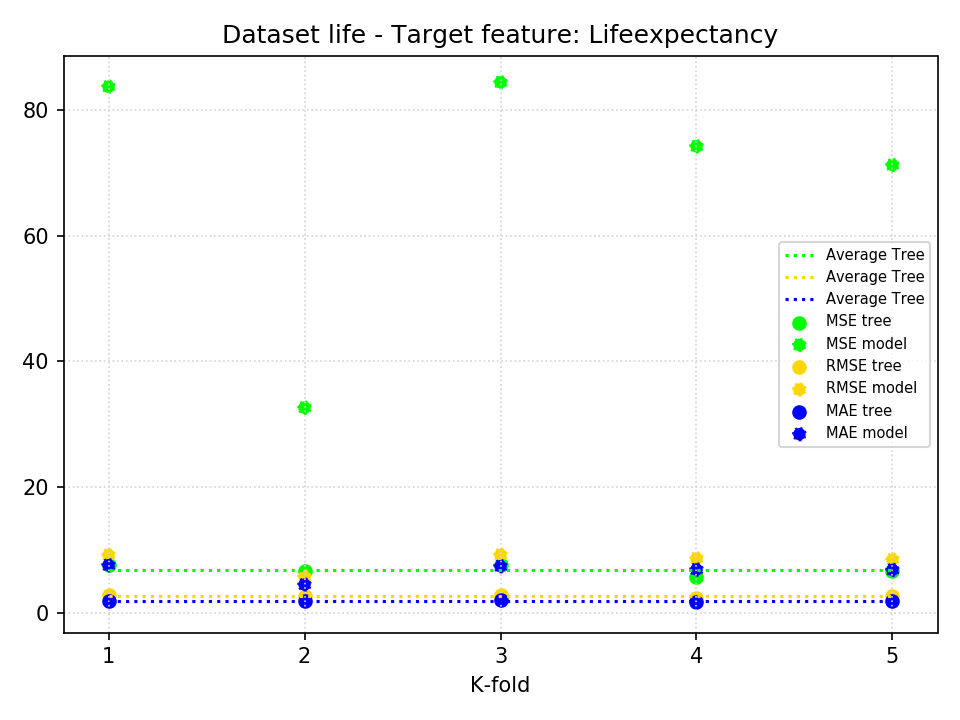
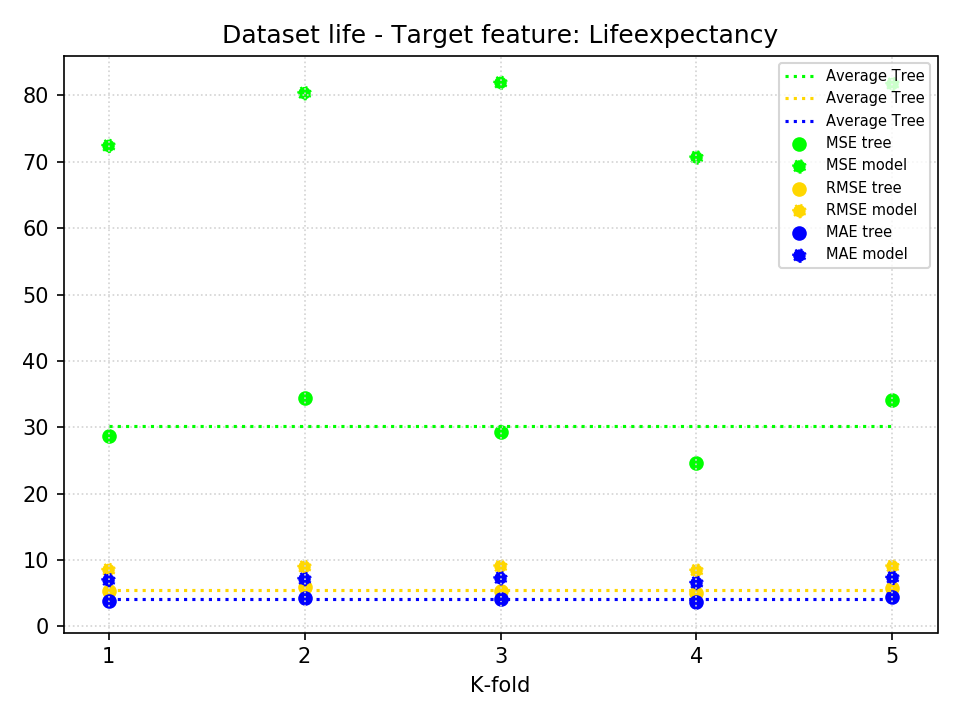
Added SSR for split searching.

diff --git a/ex_2/utilities.py b/ex_2/utilities.py
@@ -69,6 +69,71 @@ def getStandardDeviationReduction(dataframe,attribute,avg,target):
     for i in range(len(stdList)):
         weightedSum+=(numRows[i]/genNumberOfRows)*stdList[i]
     return genStd-weightedSum
+
+#the method computes for each attribute the standard deviation reduction and puts them in a list
+def getReductions2(dataframe,target):
+   '''
+    valuesDictionary = getAttributesValues(dataframe)
+    reductionsList=[]
+    for attribute in valuesDictionary.keys():
+        values = valuesDictionary.get(attribute)
+        reductionsList.append(getStandardDeviationReduction(dataframe, attribute, values, target))
+    return reductionsList
+    '''
+
+   reductionsList = []
+   for attribute in dataframe.columns:
+       valueAverage = np.average(dataframe[attribute])
+       reductionsList.append(getStandardDeviationReduction(dataframe, attribute, valueAverage, target))
+   return reductionsList
+
+# calculates the value and SSR for the best split and returns them in a dictionary
+def getBestSplit(df, column, target):
+    bestValue = 0
+    bestSSR = 999999999999
+
+    # loop through all values of the column and calculate SSR. Only keep the best.
+    for v in df[column].values:
+        # split data
+        lower = df.loc[df[column]<v]
+        upper = df.loc[df[column]>=v]
+
+        # if one of the dataframes is empty, continue
+        if lower.shape[0] == 0 or upper.shape[0] == 0:
+            continue
+
+        # calculate the respective means
+        lower_mean = np.mean(lower[target].values)
+        upper_mean = np.mean(upper[target].values)
+
+        # calculate residues
+        lower_residues = lower[target].values - lower_mean
+        upper_residues = upper[target].values - upper_mean
+
+        # calculate SSR
+        vSSR = np.sum(lower_residues**2) + np.sum(upper_residues**2)
+
+        # check if this is a new best
+        if vSSR < bestSSR:
+            bestSSR = vSSR
+            bestValue = v
+
+    return {"attribute":column, "value":bestValue, "SSR":bestSSR}
+
+# the method returns the attribute-value on which we have to split the dataset
+def getSplitAttribute2(df,target):
+    bestSplit = {"attribute":"", "value":0, "SSR":999999999999}
+
+    # loop through all attributes and get the best split for each. Only keep the best.
+    for col in df.columns:
+        if col == target:
+            continue
+        curr_bestSplit = getBestSplit(df, col, target)
+        if curr_bestSplit["SSR"] < bestSplit["SSR"]:
+            bestSplit = curr_bestSplit
+
+    return bestSplit
+
 #the method computes for each attribute the standard deviation reduction and puts them in a list
 def getReductions(dataframe,target):
    '''
@@ -119,9 +184,9 @@ def loss(y, y_pred):
 def regressionErrors(y_test, y_pred):
     """ Calculate MSE (mean squared error), RMSE (roor-MSE), MAE(mean absolute error) """
 
-    print('Mean Absolute Error:', metrics.mean_absolute_error(y_test, y_pred))
-    print('Mean Squared Error:', metrics.mean_squared_error(y_test, y_pred))
-    print('Root Mean Squared Error:', np.sqrt(metrics.mean_squared_error(y_test, y_pred)))
+    # print('Mean Absolute Error:', metrics.mean_absolute_error(y_test, y_pred))
+    # print('Mean Squared Error:', metrics.mean_squared_error(y_test, y_pred))
+    # print('Root Mean Squared Error:', np.sqrt(metrics.mean_squared_error(y_test, y_pred)))
 
 
     MAE = metrics.mean_absolute_error(y_test, y_pred)

diff --git a/ex_2/regressionTree.py b/ex_2/regressionTree.py
@@ -27,23 +27,22 @@ class Node:
         self.split()
 
     def split(self):
-        if (self.numberOfRows<10 or self.cof< 0.05):
+        if (self.numberOfRows<20 or self.cof< 0.1):
             return
         else:
-            splitAttribute=util.getSplitAttribute(self.dataset,self.target)
-            self.attribute = splitAttribute
-            valueAverage=sum(self.dataset[splitAttribute])/self.numberOfRows
-            self.value = valueAverage
+            bestSplit = util.getSplitAttribute2(self.dataset,self.target)
+            self.attribute = bestSplit["attribute"]
+            self.value = bestSplit["value"]
             # check if split would be redundant
-            if self.dataset.loc[self.dataset[splitAttribute]<valueAverage].shape[0] == 0 or self.dataset.loc[self.dataset[splitAttribute]>=valueAverage].shape[0] == 0:
+            if self.dataset.loc[self.dataset[self.attribute]<self.value].shape[0] == 0 or self.dataset.loc[self.dataset[self.attribute]>=self.value].shape[0] == 0:
                 return
-            left = Node(self.dataset.loc[self.dataset[splitAttribute]<valueAverage],self.target)
-            right = Node(self.dataset.loc[self.dataset[splitAttribute]>=valueAverage],self.target)
+            left = Node(self.dataset.loc[self.dataset[self.attribute]<self.value],self.target)
+            right = Node(self.dataset.loc[self.dataset[self.attribute]>=self.value],self.target)
             '''
             dictionary=util.getAttributesValues(self.dataset)
-            values=dictionary.get(splitAttribute)
+            values=dictionary.get(self.attribute)
             for value in values:
-                self.childList.append(Node(util.getValues(self.dataset,splitAttribute,value),splitAttribute,value,self.target))
+                self.childList.append(Node(util.getValues(self.dataset,self.attribute,value),self.attribute,value,self.target))
             '''
             self.childList["left"] = left
             self.childList["right"] = right

diff --git a/ex_2/modelTree.py b/ex_2/modelTree.py
@@ -39,18 +39,17 @@ class Node:
             self.split()
 
     def split(self):
-        if (self.numberOfRows<10 or self.cof< 0.05):
+        if (self.numberOfRows<20 or self.cof< 0.1):
             self.loss = util.loss(np.array(self.dataset[self.target]), np.repeat([self.avg], self.dataset[self.target].shape[0]))
             return
         else:
-            splitAttribute = util.getSplitAttribute(self.dataset, self.target)
-            self.attribute = splitAttribute
-            valueAverage = sum(self.dataset[splitAttribute]) / self.numberOfRows
-            self.value = valueAverage
-            if self.dataset.loc[self.dataset[splitAttribute]<valueAverage].shape[0] == 0 or self.dataset.loc[self.dataset[splitAttribute]>=valueAverage].shape[0] == 0:
+            bestSplit = util.getSplitAttribute2(self.dataset,self.target)
+            self.attribute = bestSplit["attribute"]
+            self.value = bestSplit["value"]
+            if self.dataset.loc[self.dataset[self.attribute]<self.value].shape[0] == 0 or self.dataset.loc[self.dataset[self.attribute]>=self.value].shape[0] == 0:
                 return
-            left = Node(self.dataset.loc[self.dataset[splitAttribute] < valueAverage], self.target)
-            right = Node(self.dataset.loc[self.dataset[splitAttribute] >= valueAverage], self.target)
+            left = Node(self.dataset.loc[self.dataset[self.attribute] < self.value], self.target)
+            right = Node(self.dataset.loc[self.dataset[self.attribute] >= self.value], self.target)
             # build up the subtree error (depth first approach of the tree build makes left.loss and right.loss already contain the errors of deeper levels)
             lossSplit = (left.numberOfRows * left.loss + right.numberOfRows * right.loss) / self.numberOfRows
             self.childList["left"] = left

diff --git a/ex_2/classifier.py b/ex_2/classifier.py
@@ -189,21 +189,10 @@ if __name__ == '__main__':
 
                 print(' - testing')
                 y_pred = test(testSet, target, root)
-                # print("hihihihihihihi")
                 y_pred_ModelTree=test(testSet, target, modelTreeRoot)
-                # print("hihihihihihihi2")
 
                 y_pred_tree.extend(y_pred)
                 y_pred_model.extend(y_pred_ModelTree)
-                '''
-                print("###############")
-                print("###############")
-                #print(len(y_pred_ModelTree))
-                print(len(y_pred))
-                print(len(y_test))
-                print("###############")
-                print("###############")
-                '''
                 """ Saving the errors for plotting """
                 mse_rmse_mae_regressionTree = regressionErrors(y_pred, y_test)
                 mse_rmse_mae_modelTree = regressionErrors(y_pred_ModelTree, y_test)
